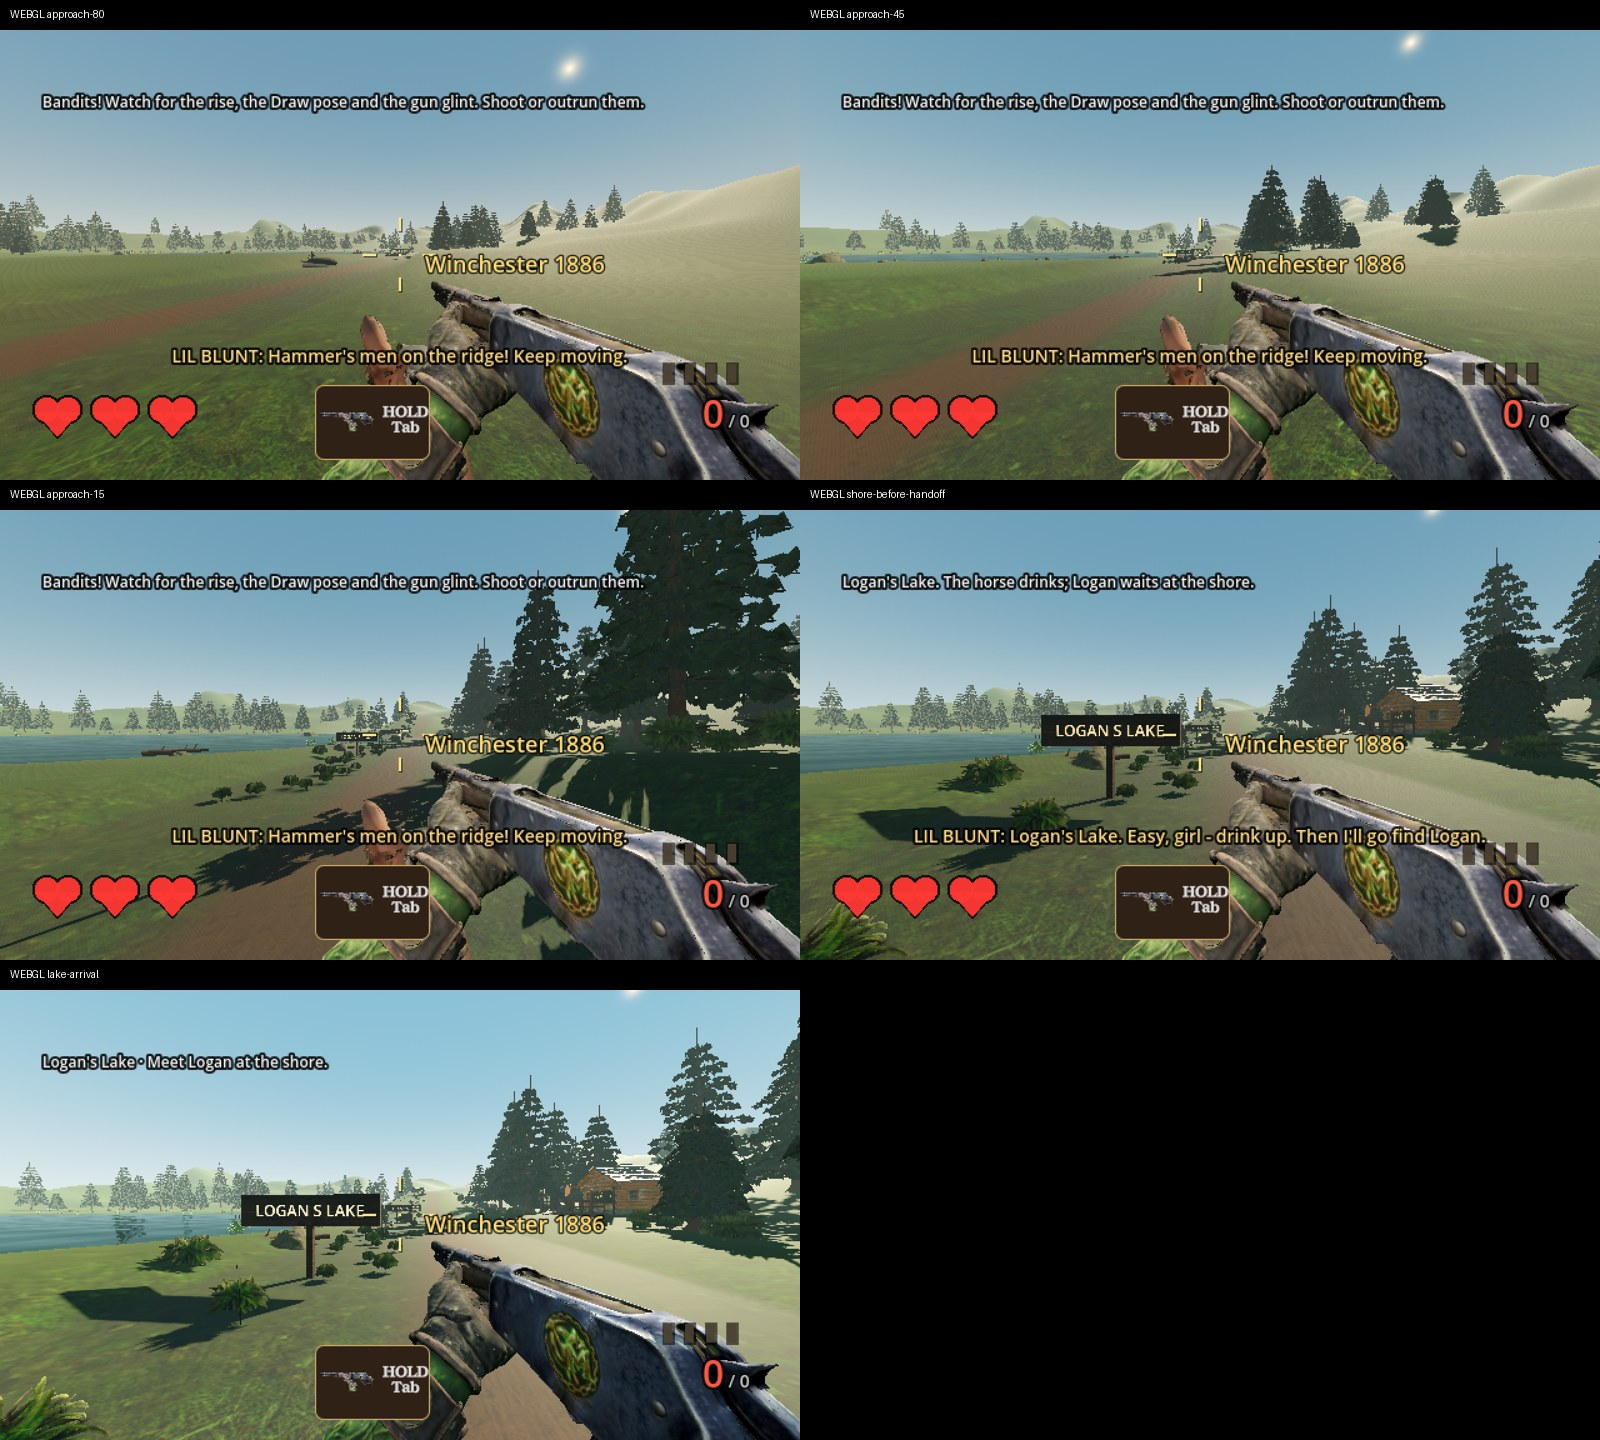
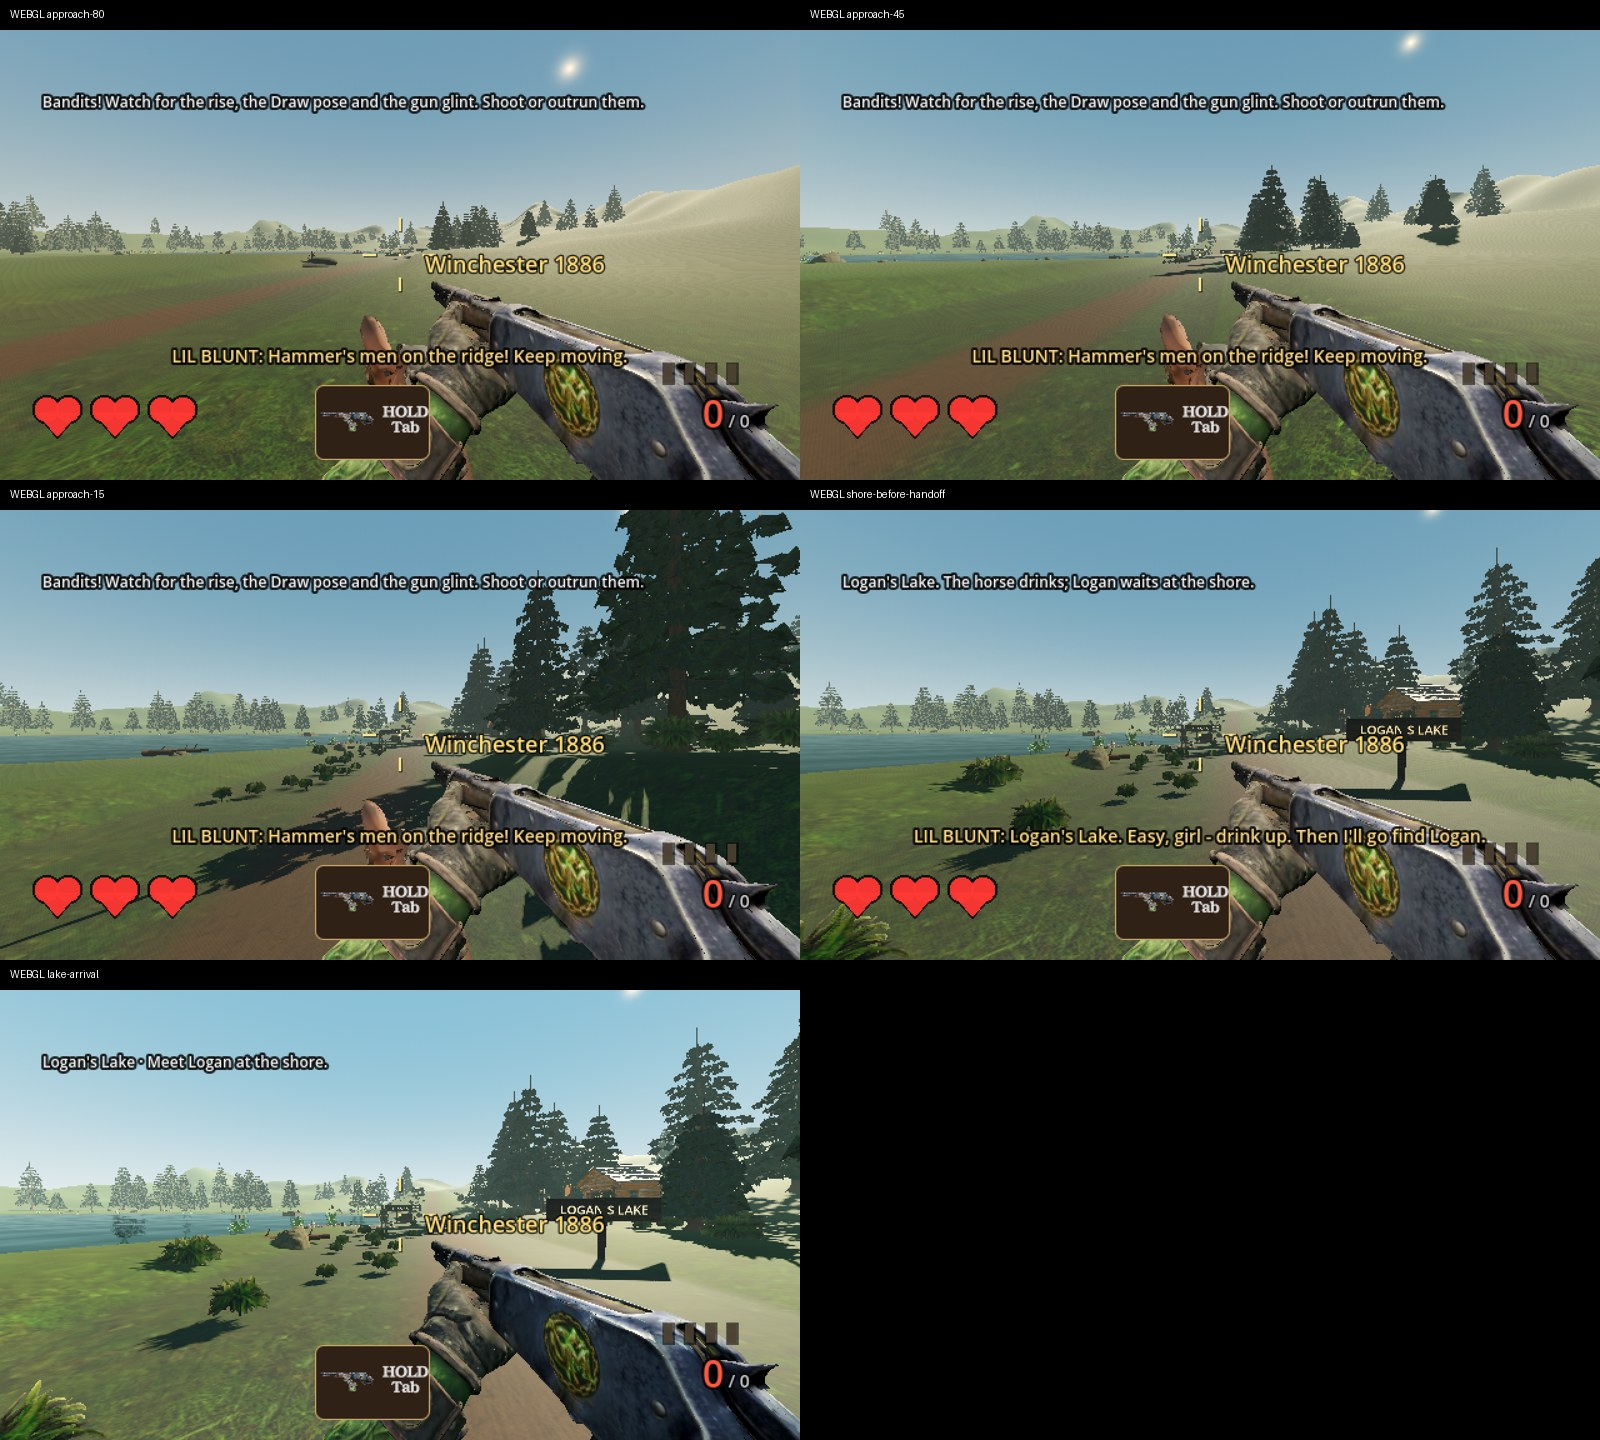
docs(ep2): record final song rotation and lake arrival verification

diff --git a/docs/episode2-quality/town-lake-20261031/REVIEW.md b/docs/episode2-quality/town-lake-20261031/REVIEW.md
@@ -12,4 +12,6 @@ Final shore behavior holds the mounted eye while the horse drinks, then dismount
 
 The first WebGL replay was rejected despite its initial driver’s success flag: it exposed freed-lambda capture errors and the nonthreaded backend reporting~0.0027s throughout an audible song. The final owner uses monotonic deck timing, pauses its base clock for an override, and captures weak references in fade callbacks. Interrupted mixes retain the audible outgoing pair with a strict two-outgoing-deck cap; a new12th native assertion catches the former power drop when departing mid-mix. The browser driver now rejects USER ERROR and requires a running AudioContext, nonzero analyser output and advancing owner time. Fresh export and strict browser/full-suite reruns are pending for these fixes.
 
-Strict local WebGL verification now passes the real153.2s town boundary with A→B overlap, five approach/handoff captures, unchanged physical camera transform, same prepared lake and continuing lake deck. AudioContext is running and analyser RMS is nonzero(.5078peak); owner playback time100.492s while backend remains.0027s, validating the independent clock. No SCRIPT/USER/SHADER/page errors. The preview copies native geometry with duplicate(0), avoiding GodotWeb constructors altering child lists during duplication. Final entrance sign is moved opposite the approach-to-Logan ray; a27th existing lake-art assertion now checks rendered board bounds do not hide him. Final placement capture/export and clean whole-suite completion remain pending.
+Strict local WebGL verification now passes the real153.2s town boundary with A→B overlap, five approach/handoff captures, unchanged physical camera transform, same prepared lake and continuing lake deck. AudioContext is running and analyser RMS is nonzero(.5078peak); owner playback time100.492s while backend remains.0027s, validating the independent clock. No SCRIPT/USER/SHADER/page errors. The preview copies native geometry with duplicate(0), avoiding GodotWeb constructors altering child lists during duplication. Final entrance sign is moved opposite the approach-to-Logan ray; the27-check lake-art suite now checks rendered board bounds do not hide him. Final placement capture/export and clean whole-suite completion remain pending.
+
+Final local verification is complete: full CI headless suite passes with only its three documented machine-dependent pause-layout exceptions; final lake-art27 and preview8 pass. Warm export197675808B/script_errors0; fresh clone197643072B/margin1586368B under190MiB. Strict final WebGL replay waits through the actual153.2s boundary, passes8checks/5captures with physical eye/gaze unchanged, audio context running, nonzero RMS(.3257peak), owner time98.462s vs backend.0027s, errors[]. See web-local-arrival.jpg; the moved sign leaves Logan’s line clear. Local vault GM Game/Projects/Lake.md was not found; repository evidence is retained here. Deployment/public proof remains pending.
